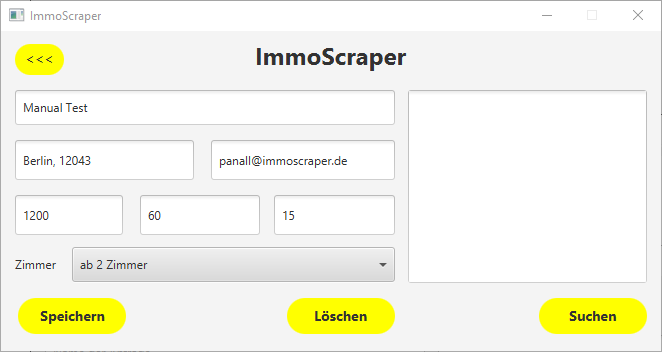
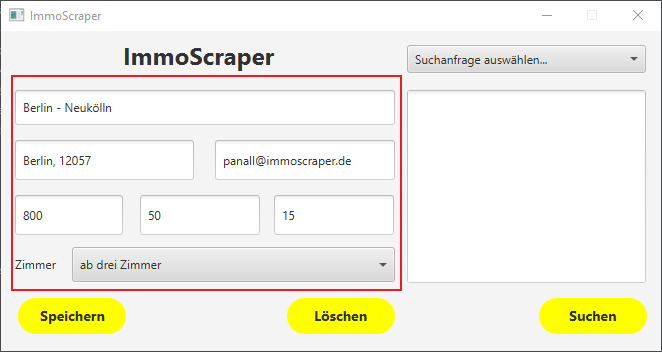
edits on ReadMe: reworked Manual, new Screenshots

diff --git a/readme.md b/readme.md
@@ -4,45 +4,43 @@
 
 Für die Installation muss das Projekt heruntergeladen werden.\
 Um den ImmoScraper zu verwenden, wird ein Rechner mit **Java** (min. Java **Version 11**) benötigt.\
-Um das Programm auszuführen muss die ausführbare **.jar-Datei** gestartet werden.\
+Um das Programm auszuführen muss die ausführbare **immoscraper.jar-Datei** gestartet werden.\
 Nun sollte eine Anwendung erscheinen und das Programm ist bereit!
 
 ## Handbuch
 
-Wenn die ausführbare .jar-Datei gestartet wurde, sollte so ein Fenster erscheinen:
+Wenn die ausführbare **immoscraper.jar**-Datei gestartet wurde, sollte so ein Fenster erscheinen:
 
 ![alt text](./screenshots/ImmoScraper_Start.png "ImmoScraper - Startoberfläche")
 
-Hier hat man die Möglichkeit mit **Los!** eine neue Suchanfrage zu einer Wohnung/Immobilie zu stellen oder eine bereits erstellte Suchanfrage zu bearbeiten.
+Hier hat man die Möglichkeit eine neue **Suchanfrage** zu einer Wohnung/Immobilie zu erstellen oder eine bereits erstellte Suchanfrage zu bearbeiten.
+Die jeweiligen Informationen zu einer Wohnung/Immobilie müssen hier in den Feldern angegeben werden. Dabei ist zu beachten, dass die Angabe des **Namens der Suchanfrage**, die **E-Mail-Adresse**, und die Informationen **Ort, Postleitzahl oder Stadt** **erforderlich** sind. Der Rest ist optional.  
 
 #### Suchanfrage erstellen
-Beim Klick auf **Los!** erscheint eine neue Maske:
 
-![alt text](./screenshots/ImmoScraper_Query.png "ImmoScraper - Neue Suchanfrage")
-
-Damit ImmoScraper etwas finden kann, werden hier ein paar **Informationen** zur gesuchten Wohnung/Immobilie benötigt.
+Damit ImmoScraper nach einer gewünschten Wohnung/Immobilie suchen kann, werden hier ein paar **Informationen** zur Wunsch-Wohnung/-Immobilie benötigt.
 
 Beispiel:\
 ![alt text](./screenshots/ImmoScraper_Example.png "ImmoScraper - Beispiel")
 
 #### Suchanfrage speichern
 Ein Klick auf **Speichern** speichert die derzeit eingegebenen Informationen als Suchanfrage unter dem angegebenen Namen.
-![alt text](./screenshots/ImmoScraper_Save.png "ImmoScraper - Speichern")
+![alt text](./screenshots/ImmoScraper_Save.png "ImmoScraper - Speichern")\
+(Suchanfragen werden in einer CSV-Datei abgespeichert und niedergeschrieben.)
 
+#### Suchanfrage bearbeiten
+Damit eine Suchanfrage bearbeitet werden kann, muss man diese zunächst in der Drop-Down-Liste des Programms auswählen.
+![alt text](./screenshots/ImmoScraper_Edit.png "ImmoScraper - Bearbeiten")\
 
-Um eine Suchanfrage zu **bearbeiten** geht man zunächst zurück zum Start:
-![alt text](./screenshots/ImmoScraper_Back.png "ImmoScraper - Zurück zum Start")
+Nun hat man die Möglichkeit die ausgewählte Suchanfrage zu bearbeiten, sollte sich etwas geändert oder sich vertippt haben.
 
-Hier wählt man die jeweilige Suchanfrage, die bearbeitet werden soll, aus der Drop-Down-Liste aus und klickt auf **Los!**:
-![alt text](./screenshots/ImmoScraper_Edit.png "ImmoScraper - Suchanfrage auswählen")
-
-Nun hat man die Möglichkeit seine Suchanfrage zu bearbeiten, sollte sich etwas geändert oder sollte man sich vertippt haben.
-
-Ein Klick auf **Löschen** entfernt die jeweilige Suchanfrage wieder.
+#### Suchanfrage löschen
+Ein Klick auf **Löschen** entfernt die ausgewählte Suchanfrage und die Informationen aus der CSV Datei wieder.
 ![alt text](./screenshots/ImmoScraper_Delete.png "ImmoScraper - Löschen")
 
+#### Benachrichtigt werden
 Mit einem Klick auf **Suchen** werden die Informationen aus den Feldern der Suchanfrage als Query-String in den immoscout24-Link eingefügt.\
-*(z.B. www.immobilienscout24.de/Suche/de/ + searchQuery + /wohnung-mieten?enteredFrom=one_step_search" )*\
+*(z.B. www.immobilienscout24.de/Suche/de/ + searchQuery + /wohnung-mieten?enteredFrom=one_step_search" )*
 
 Die Scraping-Einheit von ImmoScraper sucht sich die nächsten Wohnungen/Immobilien mit den jeweiligen Kriterien heraus und gibt die Informationen zurück.
 Der Controller sendet diesbezüglich dann eine E-Mail mit den Informationen an die angegebene E-Mail-Adresse.
